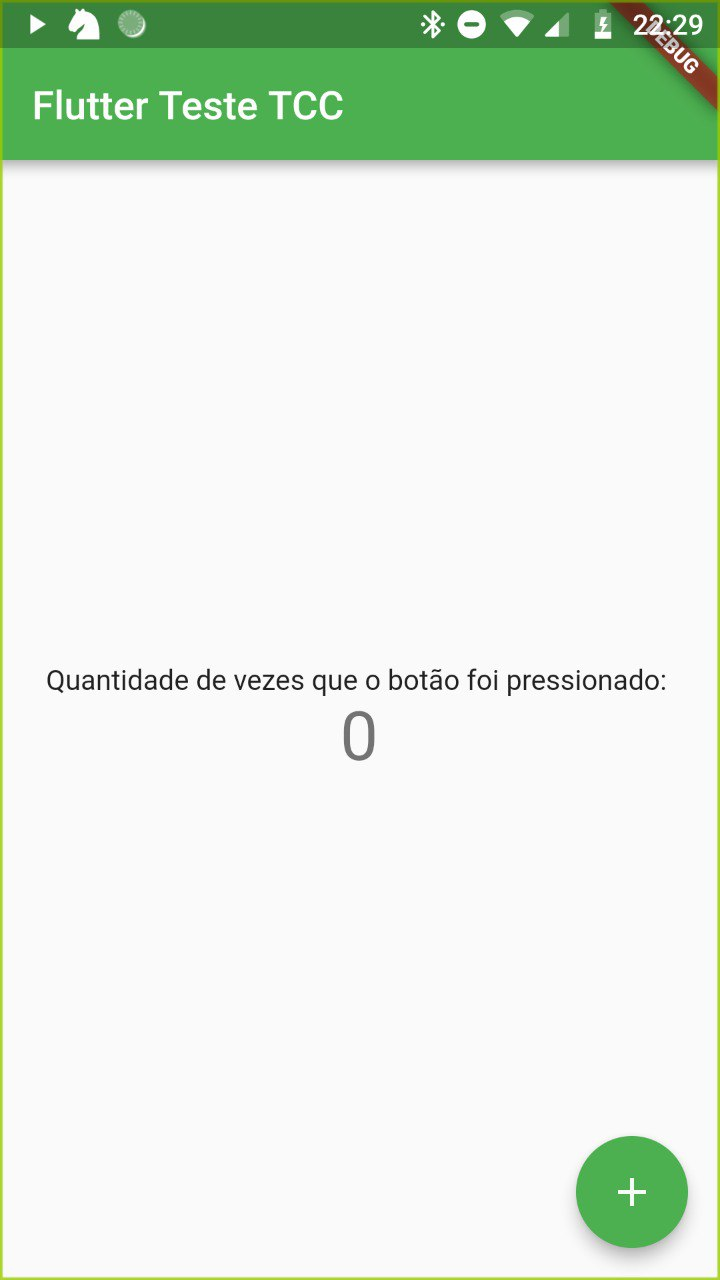
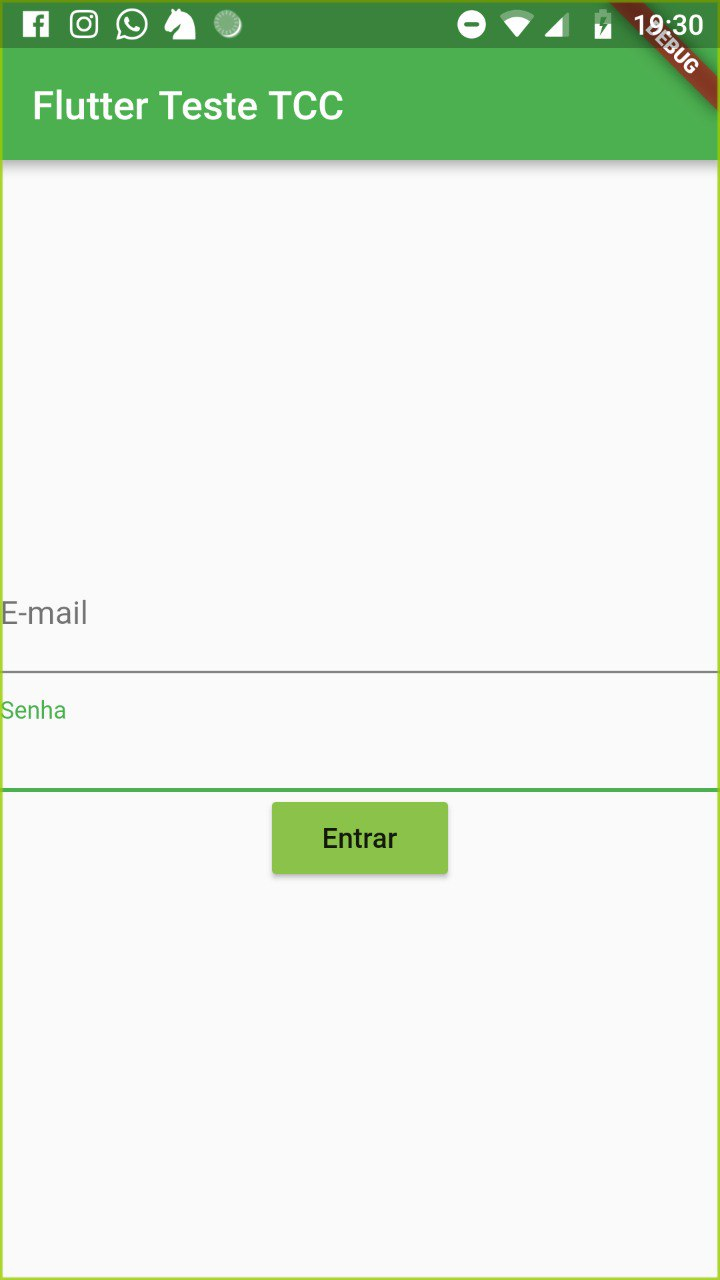
Estrutura criada (tela de login)

diff --git a/teste_flutter/lib/main.dart b/teste_flutter/lib/main.dart
@@ -44,18 +44,6 @@ class MyHomePage extends StatefulWidget {
 }
 
 class _MyHomePageState extends State<MyHomePage> {
-  int _counter = 0;
-
-  void _incrementCounter() {
-    setState(() {
-      // This call to setState tells the Flutter framework that something has
-      // changed in this State, which causes it to rerun the build method below
-      // so that the display can reflect the updated values. If we changed
-      // _counter without calling setState(), then the build method would not be
-      // called again, and so nothing would appear to happen.
-      _counter++;
-    });
-  }
 
   @override
   Widget build(BuildContext context) {
@@ -91,21 +79,30 @@ class _MyHomePageState extends State<MyHomePage> {
           // horizontal).
           mainAxisAlignment: MainAxisAlignment.center,
           children: <Widget>[
-            Text(
-              'Quantidade de vezes que o botão foi pressionado: ',
+            TextFormField(
+              decoration: InputDecoration(
+                labelText: 'E-mail'
+              ),
             ),
-            Text(
-              '$_counter',
-              style: Theme.of(context).textTheme.display1,
+            
+            TextFormField(
+              decoration: InputDecoration(
+                labelText: 'Senha'
+              ),
+              obscureText: true,
+            ),
+
+            RaisedButton(
+              child: const Text('Entrar', semanticsLabel: 'Entrar'),
+              color: Colors.lightGreen,
+              splashColor: Colors.blueGrey,
+              onPressed: (){
+                
+              },
             ),
           ],
         ),
       ),
-      floatingActionButton: FloatingActionButton(
-        onPressed: _incrementCounter,
-        tooltip: 'Increment',
-        child: Icon(Icons.add),
-      ), // This trailing comma makes auto-formatting nicer for build methods.
     );
   }
 }
